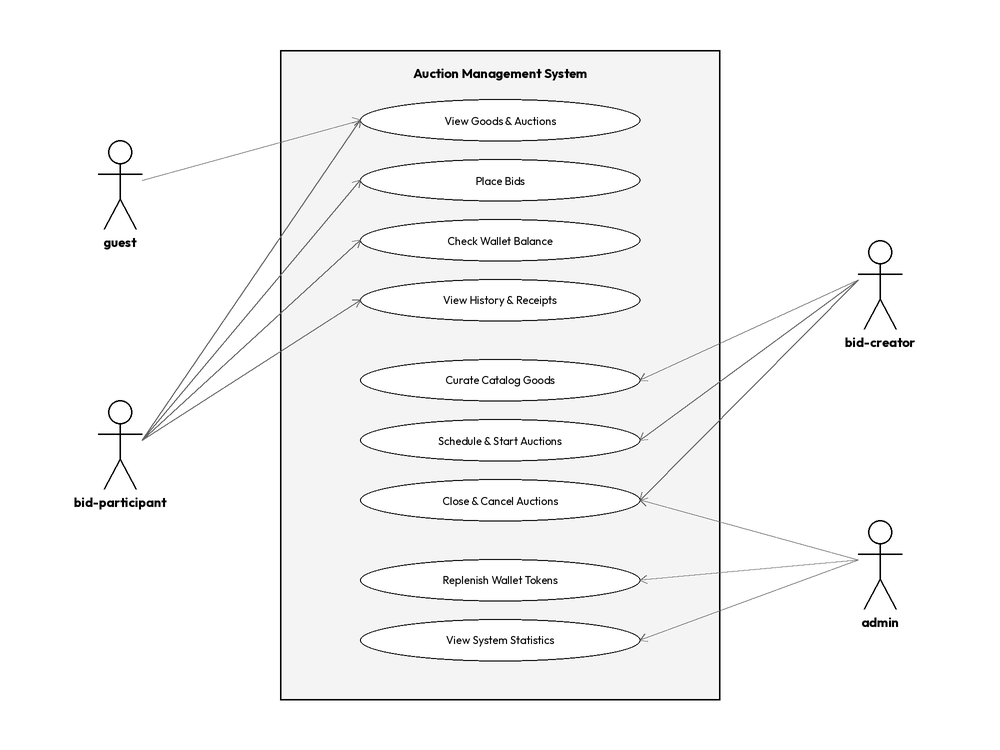
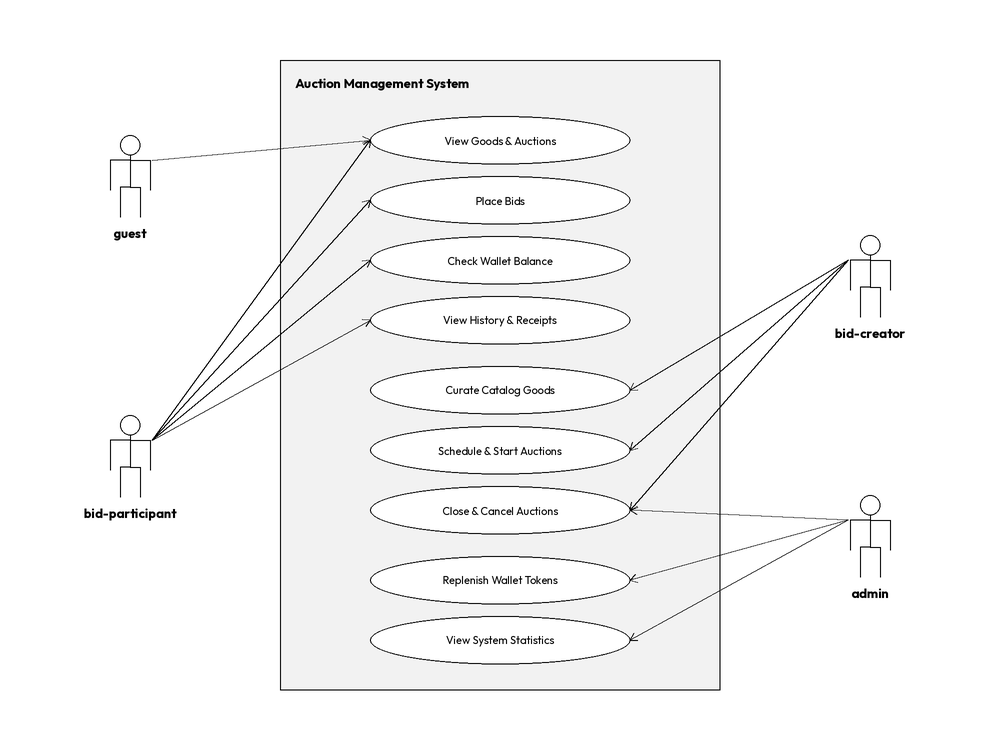
docs: finalize Use Case diagram to match classic UML Visio layout in example

diff --git a/scratch/draw_use_case.py b/scratch/draw_use_case.py
@@ -25,44 +25,42 @@ except IOError:
 
 # Colors
 COLOR_BLACK = (0, 0, 0, 255)
-COLOR_GRAY_LINE = (100, 100, 100, 255)
-COLOR_SYSTEM_BG = (244, 244, 244, 255)  # Light grey fill for boundary box
+COLOR_GRAY_LINE = (0, 0, 0, 255)         # Black connection lines like in example
+COLOR_SYSTEM_BG = (242, 242, 242, 255)  # #f2f2f2 background for system boundary box
 
 # Coordinates
-X_LEFT_ACTORS = 120 * SCALE
-X_RIGHT_ACTORS = 880 * SCALE
+X_LEFT_ACTORS = 130 * SCALE
+X_RIGHT_ACTORS = 870 * SCALE
 X_SYSTEM_LEFT = 280 * SCALE
 X_SYSTEM_RIGHT = 720 * SCALE
-Y_SYSTEM_TOP = 50 * SCALE
-Y_SYSTEM_BOTTOM = 700 * SCALE
+Y_SYSTEM_TOP = 60 * SCALE
+Y_SYSTEM_BOTTOM = 690 * SCALE
 
 # Draw System Boundary Box (vertical rectangle in the center)
-draw.rectangle([X_SYSTEM_LEFT, Y_SYSTEM_TOP, X_SYSTEM_RIGHT, Y_SYSTEM_BOTTOM], fill=COLOR_SYSTEM_BG, outline=COLOR_BLACK, width=int(1.5 * SCALE))
+draw.rectangle([X_SYSTEM_LEFT, Y_SYSTEM_TOP, X_SYSTEM_RIGHT, Y_SYSTEM_BOTTOM], fill=COLOR_SYSTEM_BG, outline=COLOR_BLACK, width=int(1.2 * SCALE))
 
-# System Title inside the box (top-centered)
+# System Title inside the box (left-aligned at top-left like in example)
 title_text = "Auction Management System"
-text_bbox = draw.textbbox((0, 0), title_text, font=font_bold)
-tw, th = text_bbox[2] - text_bbox[0], text_bbox[3] - text_bbox[1]
-draw.text(((X_SYSTEM_LEFT + X_SYSTEM_RIGHT) // 2 - tw // 2, Y_SYSTEM_TOP + 15 * SCALE), title_text, font=font_bold, fill=COLOR_BLACK)
+draw.text((X_SYSTEM_LEFT + 15 * SCALE, Y_SYSTEM_TOP + 15 * SCALE), title_text, font=font_bold, fill=COLOR_BLACK)
 
-# Use Cases list with Y coordinates
+# Use Cases list with Y coordinates (adjusted spacing to fit ovals perfectly)
 USE_CASES = {
-    1: {"text": "View Goods & Auctions", "y": 120 * SCALE},
-    2: {"text": "Place Bids", "y": 180 * SCALE},
-    3: {"text": "Check Wallet Balance", "y": 240 * SCALE},
-    4: {"text": "View History & Receipts", "y": 300 * SCALE},
-    5: {"text": "Curate Catalog Goods", "y": 380 * SCALE},
-    6: {"text": "Schedule & Start Auctions", "y": 440 * SCALE},
-    7: {"text": "Close & Cancel Auctions", "y": 500 * SCALE},
+    1: {"text": "View Goods & Auctions", "y": 140 * SCALE},
+    2: {"text": "Place Bids", "y": 200 * SCALE},
+    3: {"text": "Check Wallet Balance", "y": 260 * SCALE},
+    4: {"text": "View History & Receipts", "y": 320 * SCALE},
+    5: {"text": "Curate Catalog Goods", "y": 390 * SCALE},
+    6: {"text": "Schedule & Start Auctions", "y": 450 * SCALE},
+    7: {"text": "Close & Cancel Auctions", "y": 510 * SCALE},
     8: {"text": "Replenish Wallet Tokens", "y": 580 * SCALE},
     9: {"text": "View System Statistics", "y": 640 * SCALE}
 }
 
-# Helper: Draw Use Case Oval
+# Helper: Draw Use Case Oval (taller ovals)
 def draw_use_case_oval(text, y):
     x_center = (X_SYSTEM_LEFT + X_SYSTEM_RIGHT) // 2
-    w = 280 * SCALE
-    h = 42 * SCALE
+    w = 260 * SCALE
+    h = 48 * SCALE  # Taller oval
     x1, y1 = x_center - w // 2, y - h // 2
     x2, y2 = x_center + w // 2, y + h // 2
     
@@ -78,39 +76,54 @@ def draw_use_case_oval(text, y):
 for uc_id, info in USE_CASES.items():
     draw_use_case_oval(info["text"], info["y"])
 
-# Helper: Draw Stick Figure Actor
+# Helper: Draw Classic UML Stick Figure (from exemple.png)
 def draw_stick_figure(x, y, name):
-    # Head
-    head_r = 12 * SCALE
-    draw.ellipse([x - head_r, y - 40 * SCALE, x + head_r, y - 40 * SCALE + 2 * head_r], outline=COLOR_BLACK, width=int(1.5 * SCALE))
+    # Head (circle)
+    head_r = 10 * SCALE
+    head_y_center = y - 35 * SCALE
+    draw.ellipse([x - head_r, head_y_center - head_r, x + head_r, head_y_center + head_r], outline=COLOR_BLACK, width=int(1.2 * SCALE))
     
-    # Torso
-    torso_top = y - 40 * SCALE + 2 * head_r
-    torso_bottom = torso_top + 35 * SCALE
-    draw.line([(x, torso_top), (x, torso_bottom)], fill=COLOR_BLACK, width=int(1.5 * SCALE))
+    # Torso (vertical line)
+    torso_top = head_y_center + head_r
+    torso_bottom = torso_top + 32 * SCALE
+    draw.line([(x, torso_top), (x, torso_bottom)], fill=COLOR_BLACK, width=int(1.2 * SCALE))
     
-    # Arms
-    draw.line([(x - 22 * SCALE, torso_top + 10 * SCALE), (x + 22 * SCALE, torso_top + 10 * SCALE)], fill=COLOR_BLACK, width=int(1.5 * SCALE))
+    # Shoulders & Arms hanging straight down parallel to body
+    shoulder_y = torso_top + 5 * SCALE
+    arm_w = 20 * SCALE
+    arm_h = 30 * SCALE
+    # Left arm
+    draw.line([(x, shoulder_y), (x - arm_w, shoulder_y)], fill=COLOR_BLACK, width=int(1.2 * SCALE))
+    draw.line([(x - arm_w, shoulder_y), (x - arm_w, shoulder_y + arm_h)], fill=COLOR_BLACK, width=int(1.2 * SCALE))
+    # Right arm
+    draw.line([(x, shoulder_y), (x + arm_w, shoulder_y)], fill=COLOR_BLACK, width=int(1.2 * SCALE))
+    draw.line([(x + arm_w, shoulder_y), (x + arm_w, shoulder_y + arm_h)], fill=COLOR_BLACK, width=int(1.2 * SCALE))
     
-    # Legs
-    draw.line([(x, torso_bottom), (x - 16 * SCALE, torso_bottom + 30 * SCALE)], fill=COLOR_BLACK, width=int(1.5 * SCALE))
-    draw.line([(x, torso_bottom), (x + 16 * SCALE, torso_bottom + 30 * SCALE)], fill=COLOR_BLACK, width=int(1.5 * SCALE))
+    # Hips & Legs hanging straight down parallel to body
+    hip_w = 10 * SCALE
+    leg_h = 30 * SCALE
+    # Left leg
+    draw.line([(x, torso_bottom), (x - hip_w, torso_bottom)], fill=COLOR_BLACK, width=int(1.2 * SCALE))
+    draw.line([(x - hip_w, torso_bottom), (x - hip_w, torso_bottom + leg_h)], fill=COLOR_BLACK, width=int(1.2 * SCALE))
+    # Right leg
+    draw.line([(x, torso_bottom), (x + hip_w, torso_bottom)], fill=COLOR_BLACK, width=int(1.2 * SCALE))
+    draw.line([(x + hip_w, torso_bottom), (x + hip_w, torso_bottom + leg_h)], fill=COLOR_BLACK, width=int(1.2 * SCALE))
     
-    # Label
+    # Label below the legs
     tb = draw.textbbox((0, 0), name, font=font_bold)
     tw, th = tb[2] - tb[0], tb[3] - tb[1]
-    draw.text((x - tw // 2, torso_bottom + 35 * SCALE), name, font=font_bold, fill=COLOR_BLACK)
+    draw.text((x - tw // 2, torso_bottom + leg_h + 8 * SCALE), name, font=font_bold, fill=COLOR_BLACK)
 
-# Draw Actors
+# Draw Actors at precise positions
 draw_stick_figure(X_LEFT_ACTORS, 180 * SCALE, "guest")
-draw_stick_figure(X_LEFT_ACTORS, 440 * SCALE, "bid-participant")
+draw_stick_figure(X_LEFT_ACTORS, 460 * SCALE, "bid-participant")
 draw_stick_figure(X_RIGHT_ACTORS, 280 * SCALE, "bid-creator")
-draw_stick_figure(X_RIGHT_ACTORS, 560 * SCALE, "admin")
+draw_stick_figure(X_RIGHT_ACTORS, 540 * SCALE, "admin")
 
-# Helper: Draw connection line with arrowhead pointing to the use case oval edge
+# Helper: Draw connection line with open arrowhead pointing to the use case oval edge
 def draw_arrow_connection(x_from, y_from, x_to, y_to):
     # Draw line
-    draw.line([(x_from, y_from), (x_to, y_to)], fill=COLOR_GRAY_LINE, width=int(1.2 * SCALE))
+    draw.line([(x_from, y_from), (x_to, y_to)], fill=COLOR_GRAY_LINE, width=int(1 * SCALE))
     
     # Draw arrowhead at the end (pointing to x_to, y_to)
     dx = x_to - x_from
@@ -122,22 +135,22 @@ def draw_arrow_connection(x_from, y_from, x_to, y_to):
     x_arrow2 = x_to - arrow_len * math.cos(angle + math.pi / 6)
     y_arrow2 = y_to - arrow_len * math.sin(angle + math.pi / 6)
     
-    draw.line([(x_to, y_to), (x_arrow1, y_arrow1)], fill=COLOR_GRAY_LINE, width=int(1.2 * SCALE))
-    draw.line([(x_to, y_to), (x_arrow2, y_arrow2)], fill=COLOR_GRAY_LINE, width=int(1.2 * SCALE))
+    draw.line([(x_to, y_to), (x_arrow1, y_arrow1)], fill=COLOR_GRAY_LINE, width=int(1 * SCALE))
+    draw.line([(x_to, y_to), (x_arrow2, y_arrow2)], fill=COLOR_GRAY_LINE, width=int(1 * SCALE))
 
 # Actor joint coordinates (where lines start on the actor's body)
 JOINTS = {
-    "guest": (X_LEFT_ACTORS + 22 * SCALE, 180 * SCALE),
-    "bid-participant": (X_LEFT_ACTORS + 22 * SCALE, 440 * SCALE),
-    "bid-creator": (X_RIGHT_ACTORS - 22 * SCALE, 280 * SCALE),
-    "admin": (X_RIGHT_ACTORS - 22 * SCALE, 560 * SCALE)
+    "guest": (X_LEFT_ACTORS + 22 * SCALE, 180 * SCALE - 20 * SCALE),
+    "bid-participant": (X_LEFT_ACTORS + 22 * SCALE, 460 * SCALE - 20 * SCALE),
+    "bid-creator": (X_RIGHT_ACTORS - 22 * SCALE, 280 * SCALE - 20 * SCALE),
+    "admin": (X_RIGHT_ACTORS - 22 * SCALE, 540 * SCALE - 20 * SCALE)
 }
 
 # Use case target coordinates (left or right edge of the oval)
-X_UC_LEFT = (X_SYSTEM_LEFT + X_SYSTEM_RIGHT) // 2 - 140 * SCALE
-X_UC_RIGHT = (X_SYSTEM_LEFT + X_SYSTEM_RIGHT) // 2 + 140 * SCALE
+X_UC_LEFT = (X_SYSTEM_LEFT + X_SYSTEM_RIGHT) // 2 - 130 * SCALE
+X_UC_RIGHT = (X_SYSTEM_LEFT + X_SYSTEM_RIGHT) // 2 + 130 * SCALE
 
-# Define Connections
+# Define Connections (solid thin black lines with open arrowheads)
 # Guest connections
 draw_arrow_connection(JOINTS["guest"][0], JOINTS["guest"][1], X_UC_LEFT, USE_CASES[1]["y"])
 
@@ -157,7 +170,7 @@ draw_arrow_connection(JOINTS["admin"][0], JOINTS["admin"][1], X_UC_RIGHT, USE_CA
 draw_arrow_connection(JOINTS["admin"][0], JOINTS["admin"][1], X_UC_RIGHT, USE_CASES[8]["y"])
 draw_arrow_connection(JOINTS["admin"][0], JOINTS["admin"][1], X_UC_RIGHT, USE_CASES[9]["y"])
 
-# Save and resample
+# Save and resample to 1000x750
 img_resized = image.resize((1000, 750), Image.Resampling.LANCZOS)
 img_resized.save(OUTPUT_PATH, "PNG")
-print(f"Successfully generated classic style Use Case diagram at: {OUTPUT_PATH}")
+print(f"Successfully generated classic Visio style Use Case diagram at: {OUTPUT_PATH}")